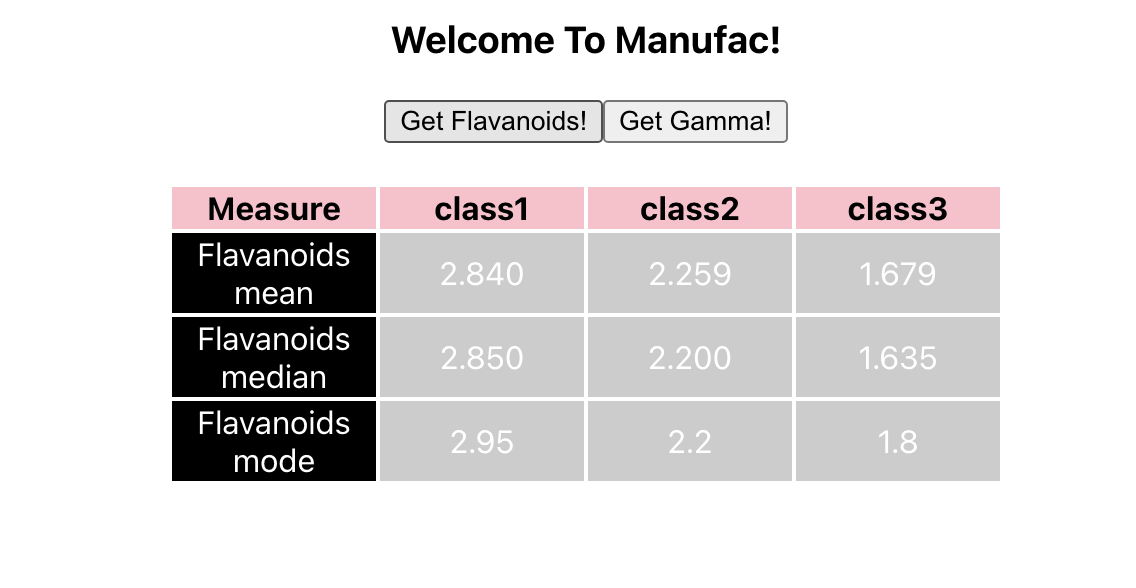
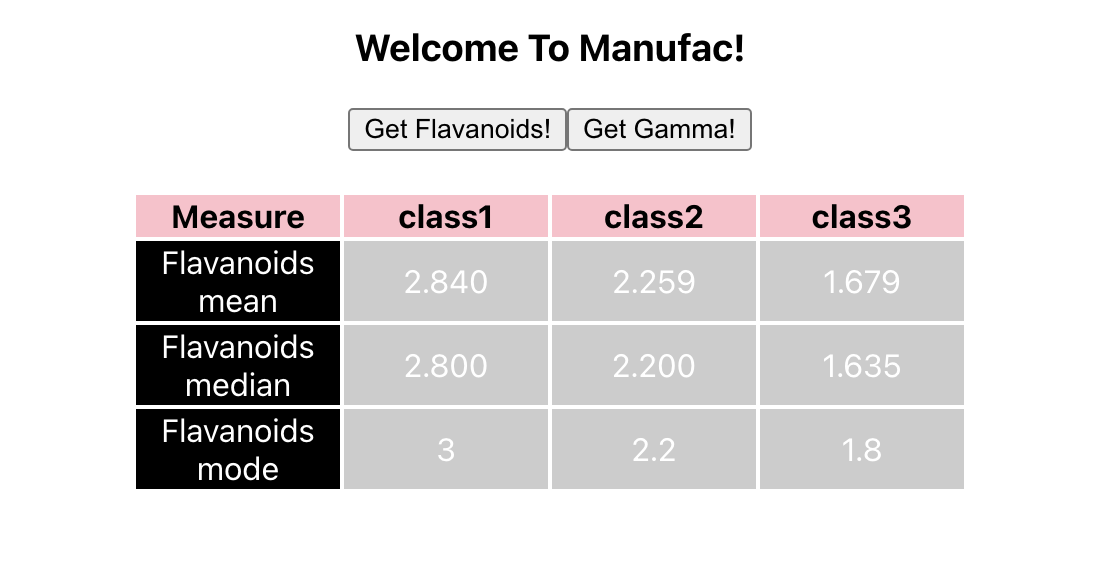
changes in median & mode

Changed region(s): [[0.0938, 0.3125, 0.9062, 0.875], [0.3125, 0.1562, 0.6875, 0.2812], [0.3125, 0.0312, 0.6875, 0.125]]

diff --git a/src/utils/index.js b/src/utils/index.js
@@ -43,10 +43,10 @@ export const getMedianData = ( ...args ) => {
 function getMedian(data, type) {
   data.sort((a, b) => a?.Flavanoids - b?.Flavanoids)
     if(data.length % 2 !== 0) {
-        return data?.[Math.round(data?.length / 2)]?.Flavanoids
+        return data?.[Math.floor(data?.length / 2)]?.[type]
     } else {
-        let median1 = data?.[(Math.round(data.length / 2)) - 1]?.Flavanoids
-        let median2 = data?.[(data.length / 2)]?.Flavanoids
+        let median1 = data?.[(Math.floor(data.length / 2)) - 1]?.[type]
+        let median2 = data?.[(data.length / 2)]?.[type]
         return (median1 + median2) / 2
     }
 }
@@ -77,11 +77,12 @@ function getMode(data, type) {
             countObj[item?.[type]] = 1
         }
     });
-    let modeVal = 0
+    let modeVal = 0, modeKey = 0
     for(let key in countObj) {
-        if(countObj[key] > modeVal) {
-            modeVal = key
+        if(countObj[key] >= (modeVal)) {
+            modeVal = Number.parseFloat(countObj[key])
+            modeKey = key
         }
     }
-    return modeVal
+    return modeKey
 }

diff --git a/src/App.js b/src/App.js
@@ -11,7 +11,6 @@ function App() {
   const [class1Alcohol, setClass1Alcohol] = useState([])
   const [class2Alcohol, setClass2Alcohol] = useState([])
   const [class3Alcohol, setClass3Alcohol] = useState([])
-  const [class4Alcohol, setClass4Alcohol] = useState([])
   const [measureData, setMeasureData] = useState({});
   useEffect(() => {
     transformData();
@@ -30,7 +29,8 @@ function App() {
   const transformData = () => {
     let type1 = [], type2 = [], type3 = [], type4 = [];
     data.forEach(item => {
-      item.Gamma = ((item?.Ash * item?.Hue) / item?.Magnesium).toFixed(3)
+      item.Gamma = Number.parseFloat(((item?.Ash * item?.Hue) / item?.Magnesium).toFixed(3))
+      // console.log('item - gamma : ', item?.Gamma, typeof item?.Gamma)
       if(item?.Alcohol === 1) {
         type1.push(item)
       } else if(item?.Alcohol === 2) {
